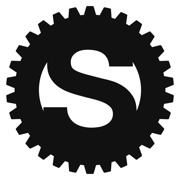
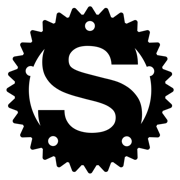
アイコンの図案を更新

diff --git a/README.md b/README.md
@@ -3,3 +3,5 @@
 RustSecJP のトップページです。 https://rustsecjp.github.io/
 
 RustSecJP は非公式のコミュニティです。RustSec、Rust Project、Rust Foundation とは提携していません。
+
+アイコンは Rust のロゴをもとに、中央の文字を「S」に差し替えたものです。Rust のロゴは Rust Foundation が保有し、CC BY 4.0 で提供されています。Rust と Rust のロゴは Rust Foundation の商標です。
